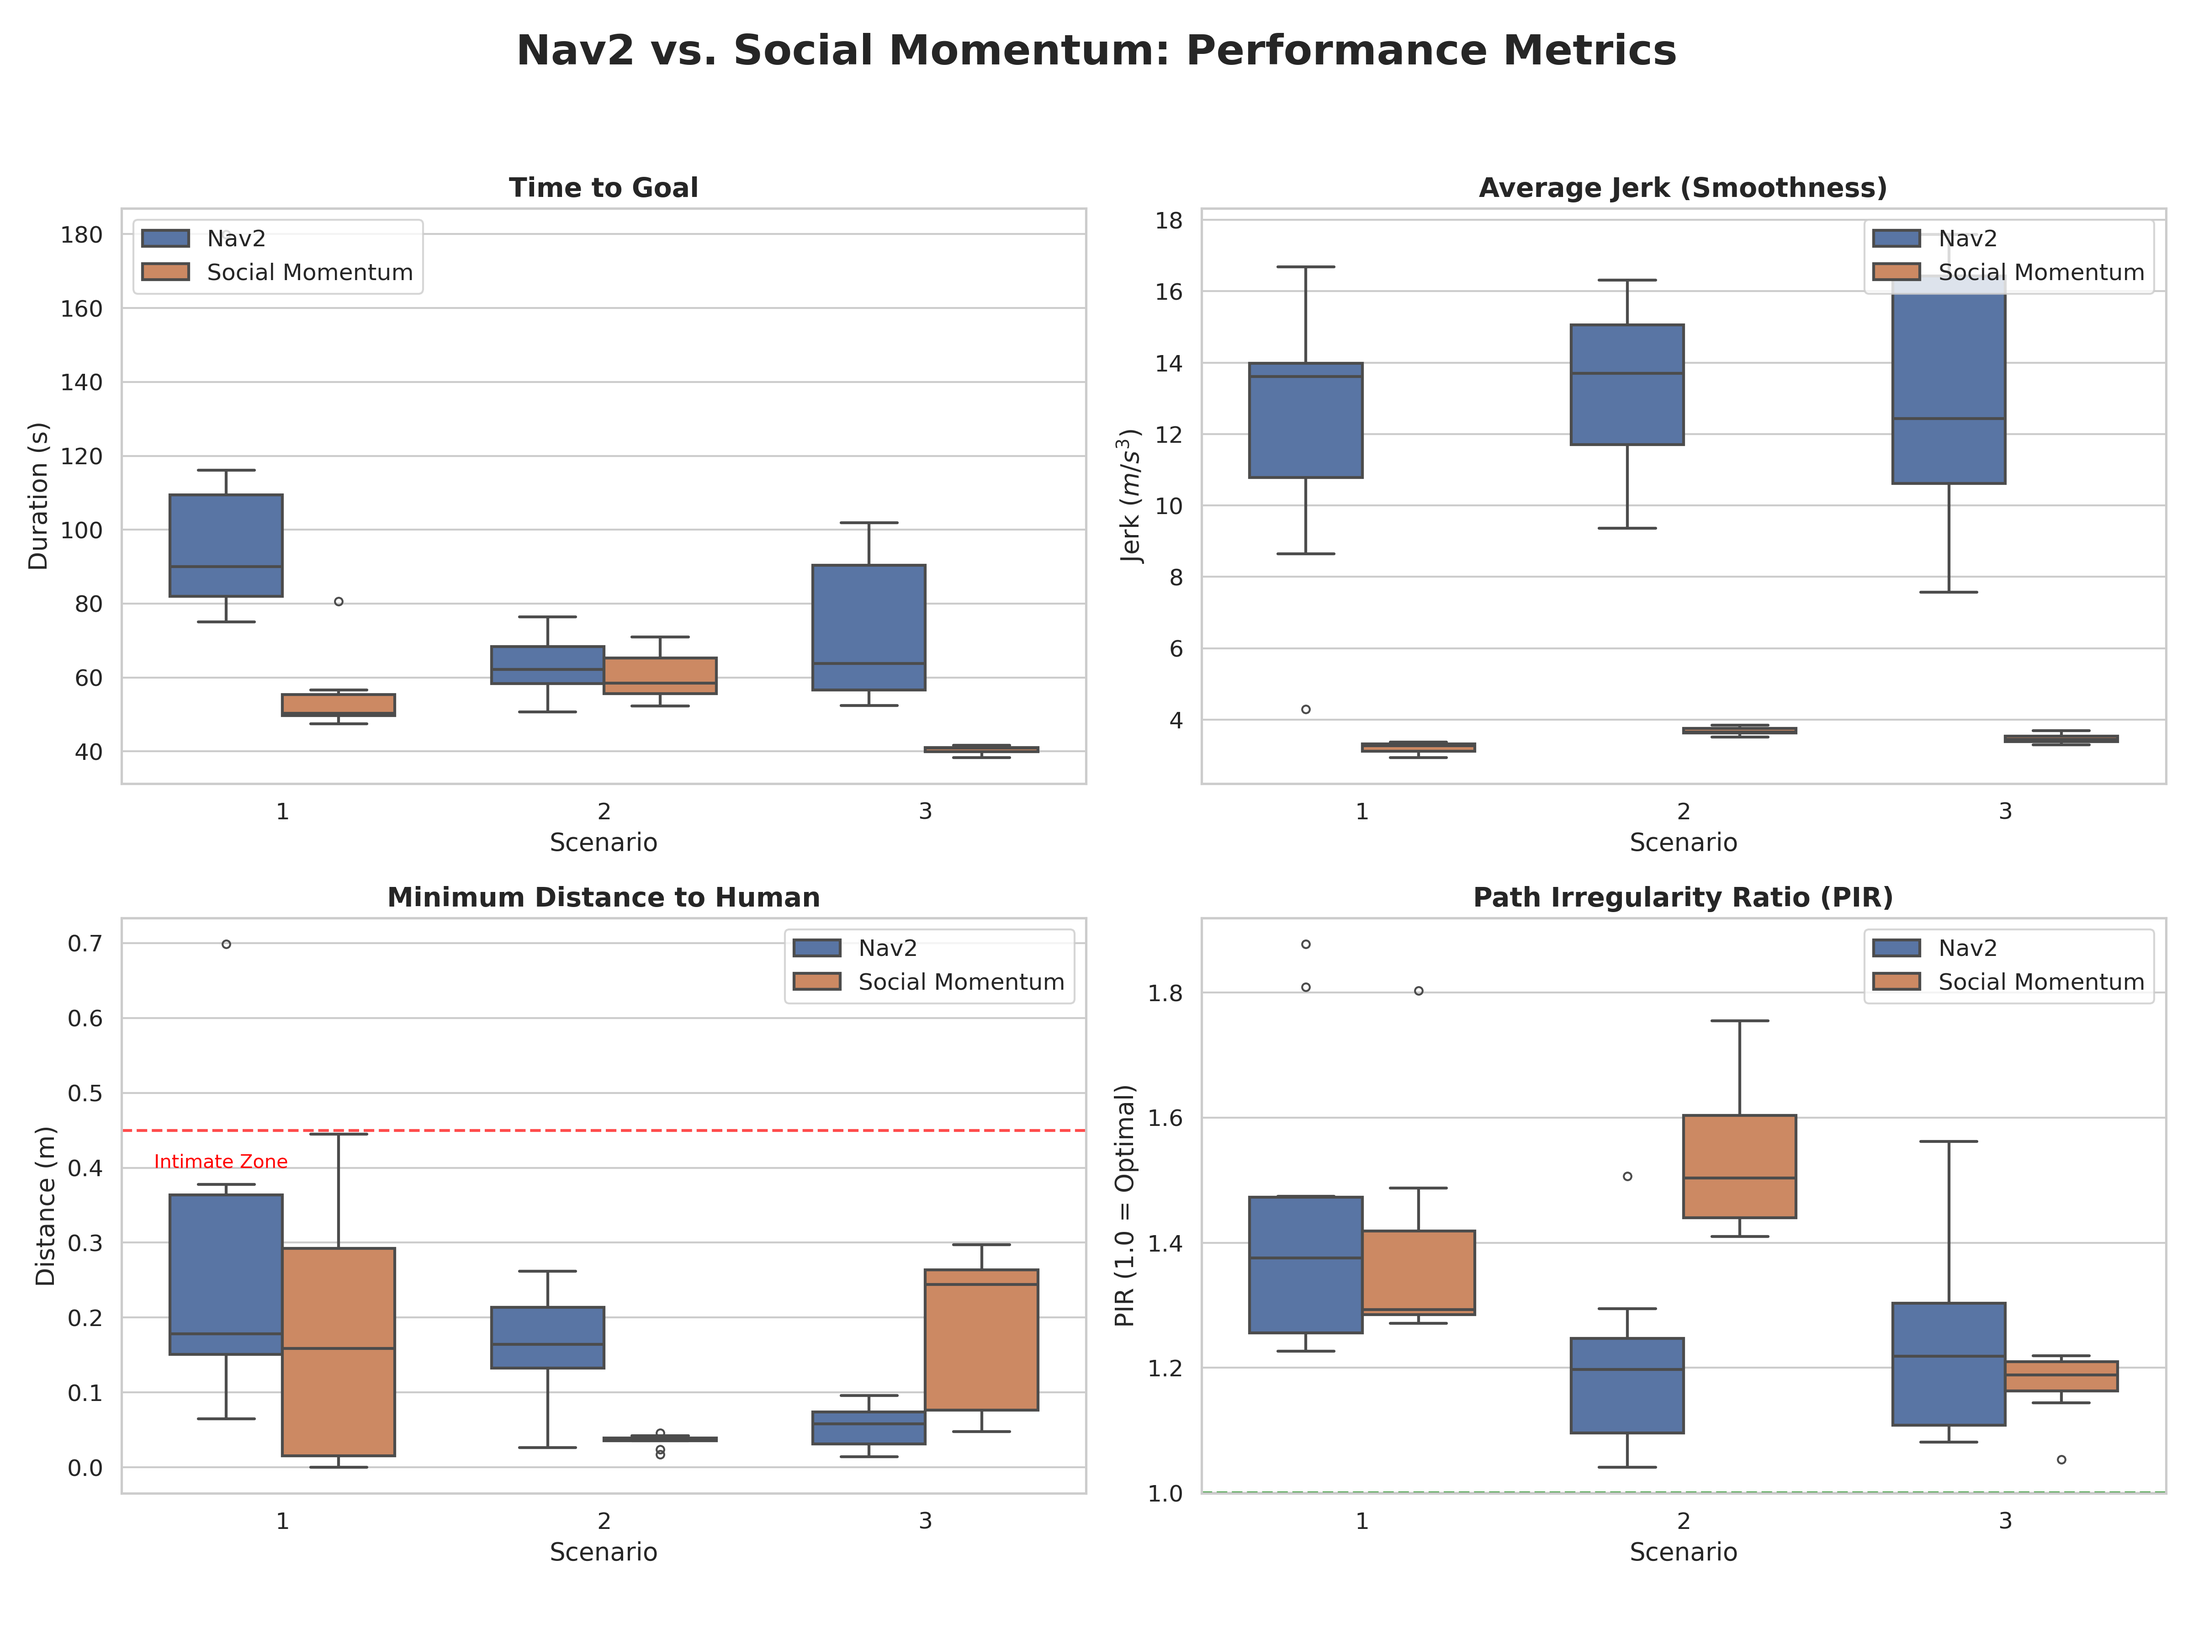
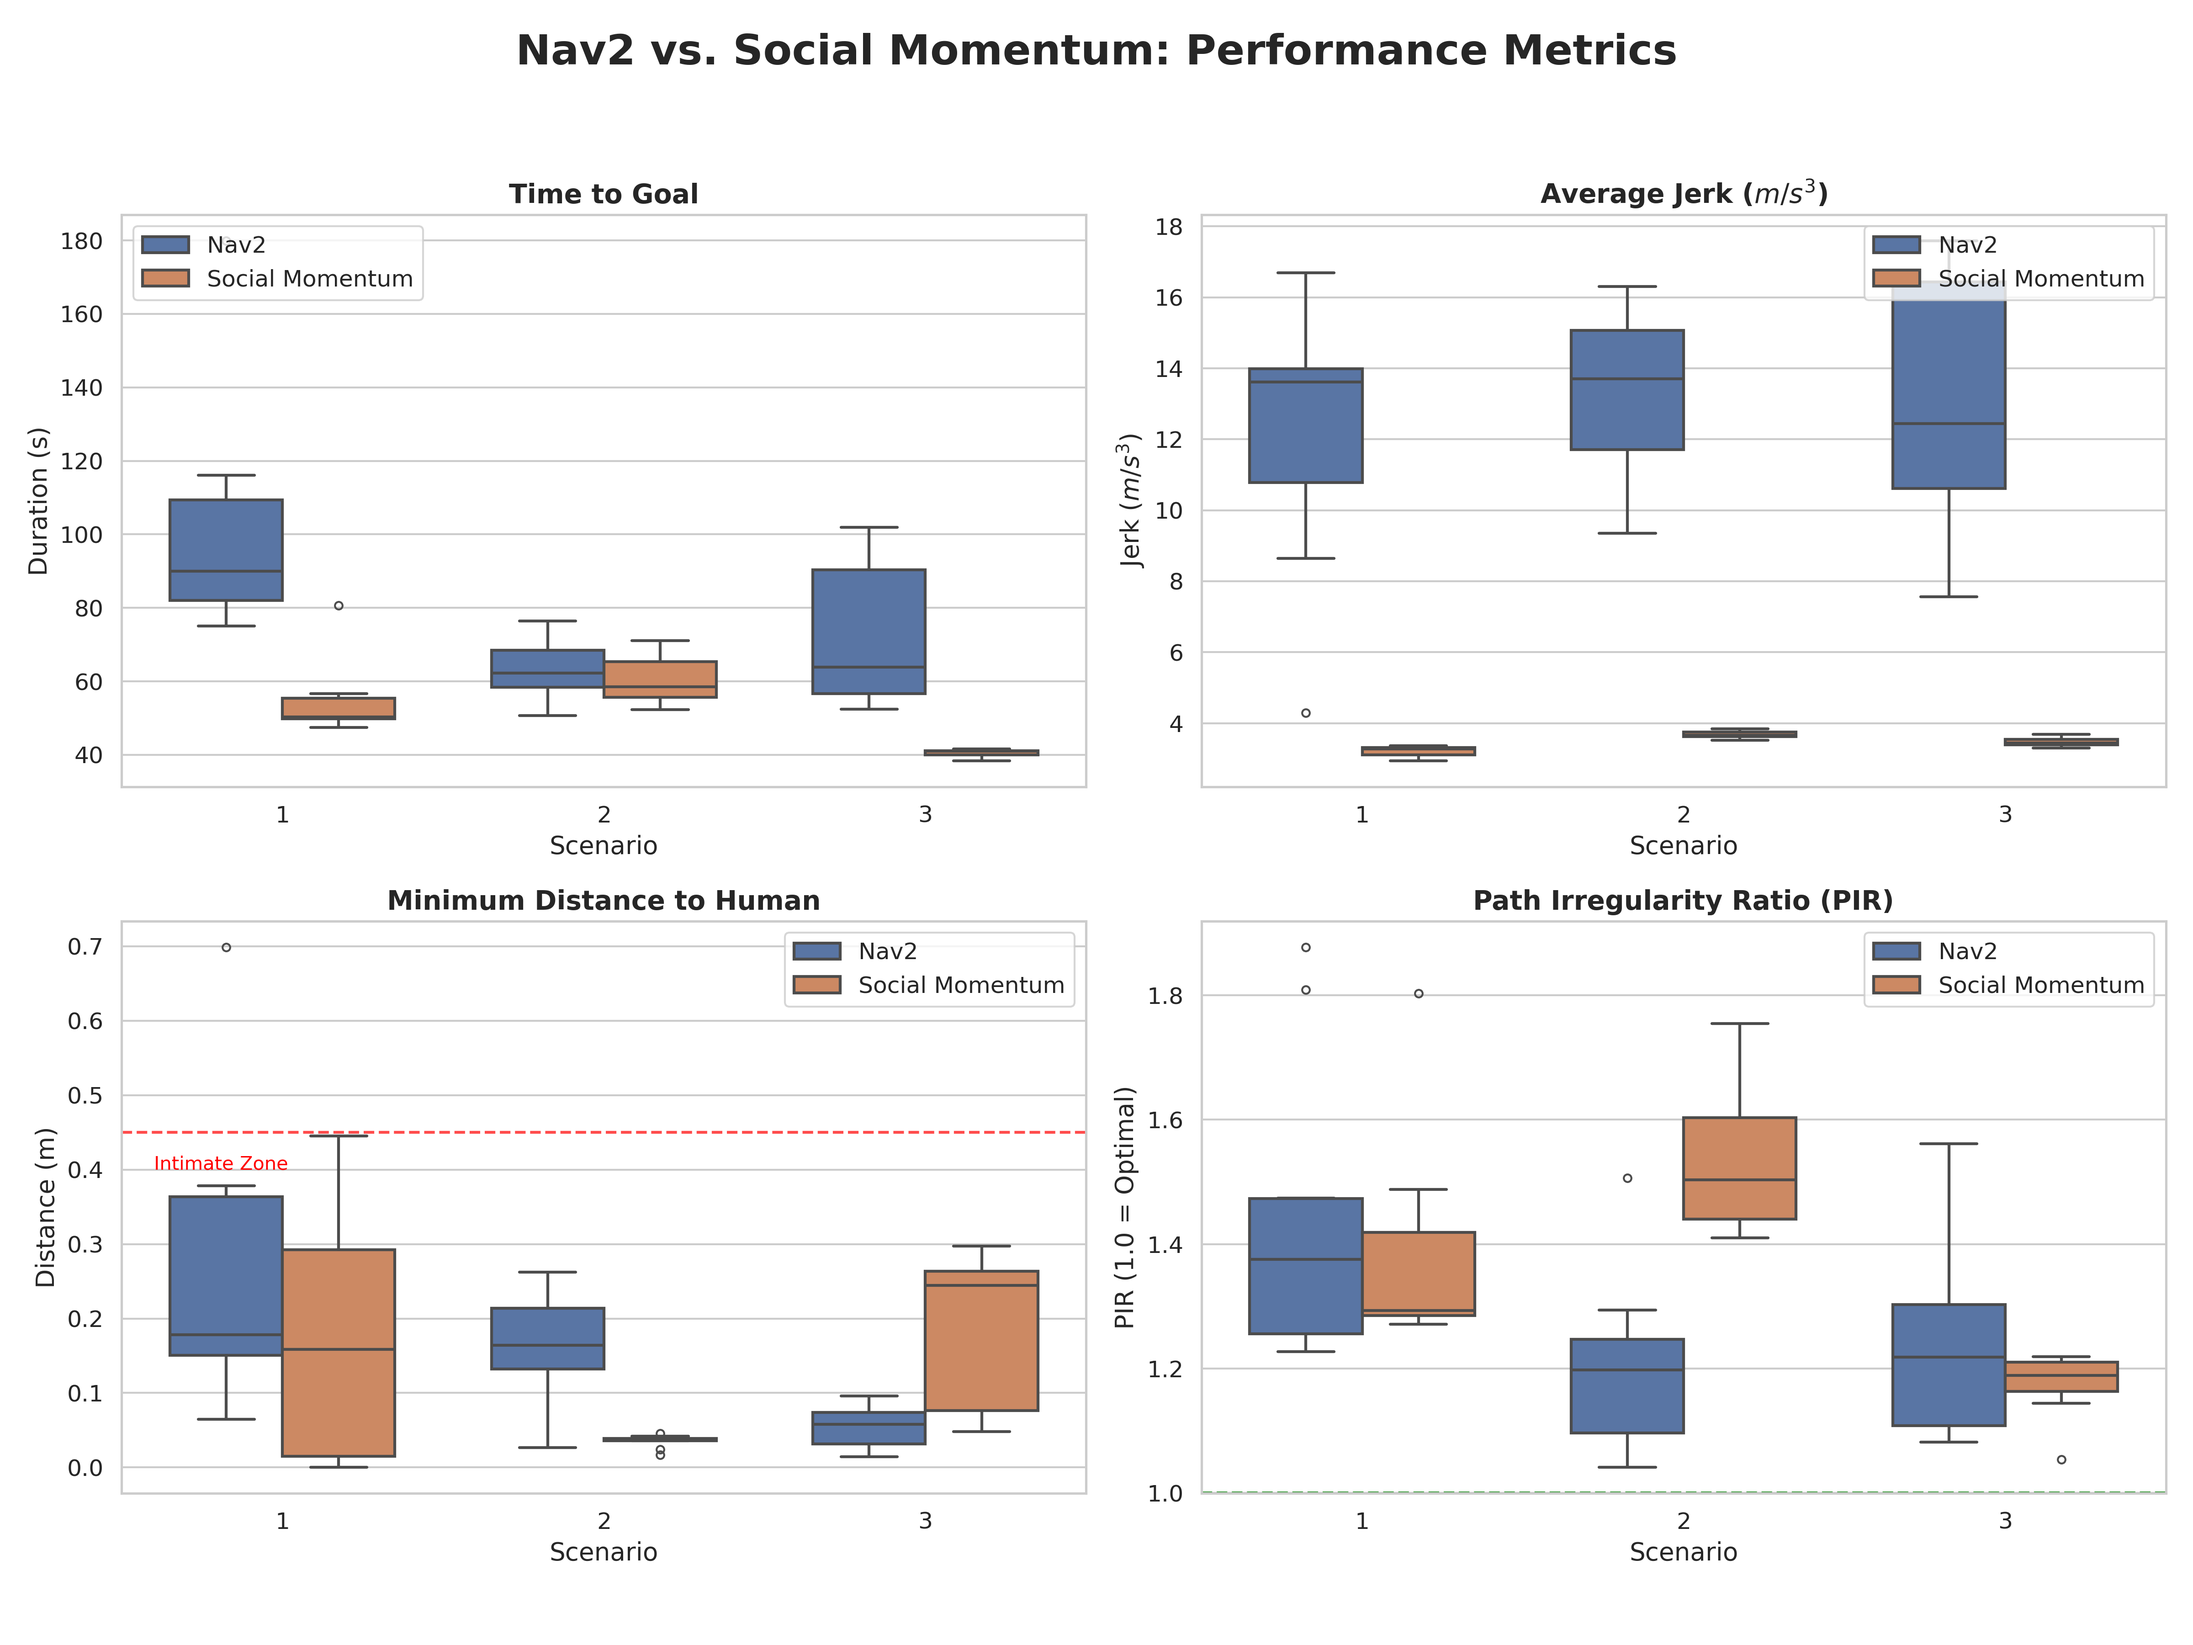
added unit

diff --git a/rosbags/post_processing/general_dashboard.py b/rosbags/post_processing/general_dashboard.py
@@ -129,7 +129,7 @@ def generate_scientific_dashboard(df):
 
     # --- PLOT 2: JERK ---
     sns.boxplot(data=df, y='avg_jerk', ax=axes[0, 1], **plot_args)
-    axes[0, 1].set_title('Average Jerk (Smoothness)', fontsize=14, weight='bold')
+    axes[0, 1].set_title('Average Jerk ($m/s^3$)', fontsize=14, weight='bold')
     axes[0, 1].set_ylabel('Jerk ($m/s^3$)')
     axes[0, 1].legend(loc='upper right')
 
